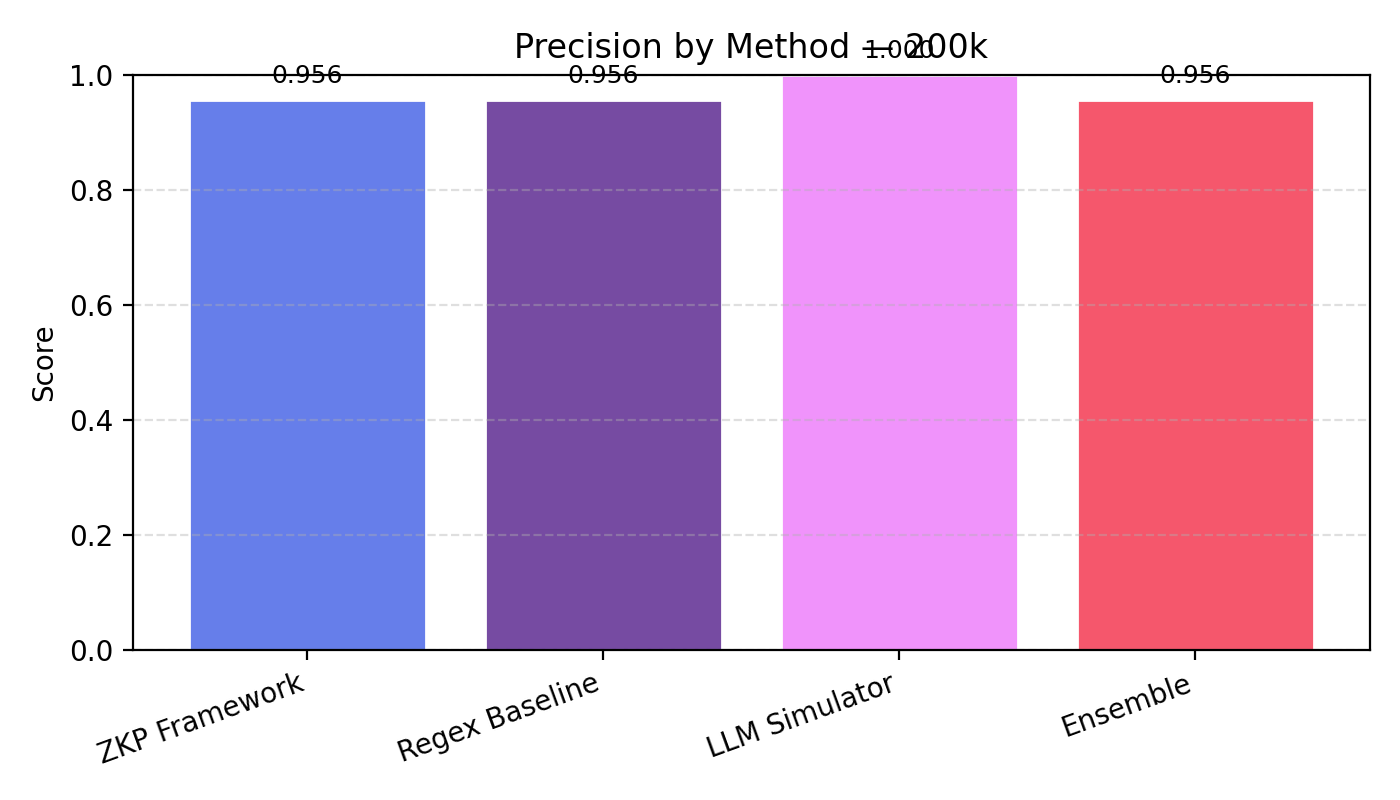
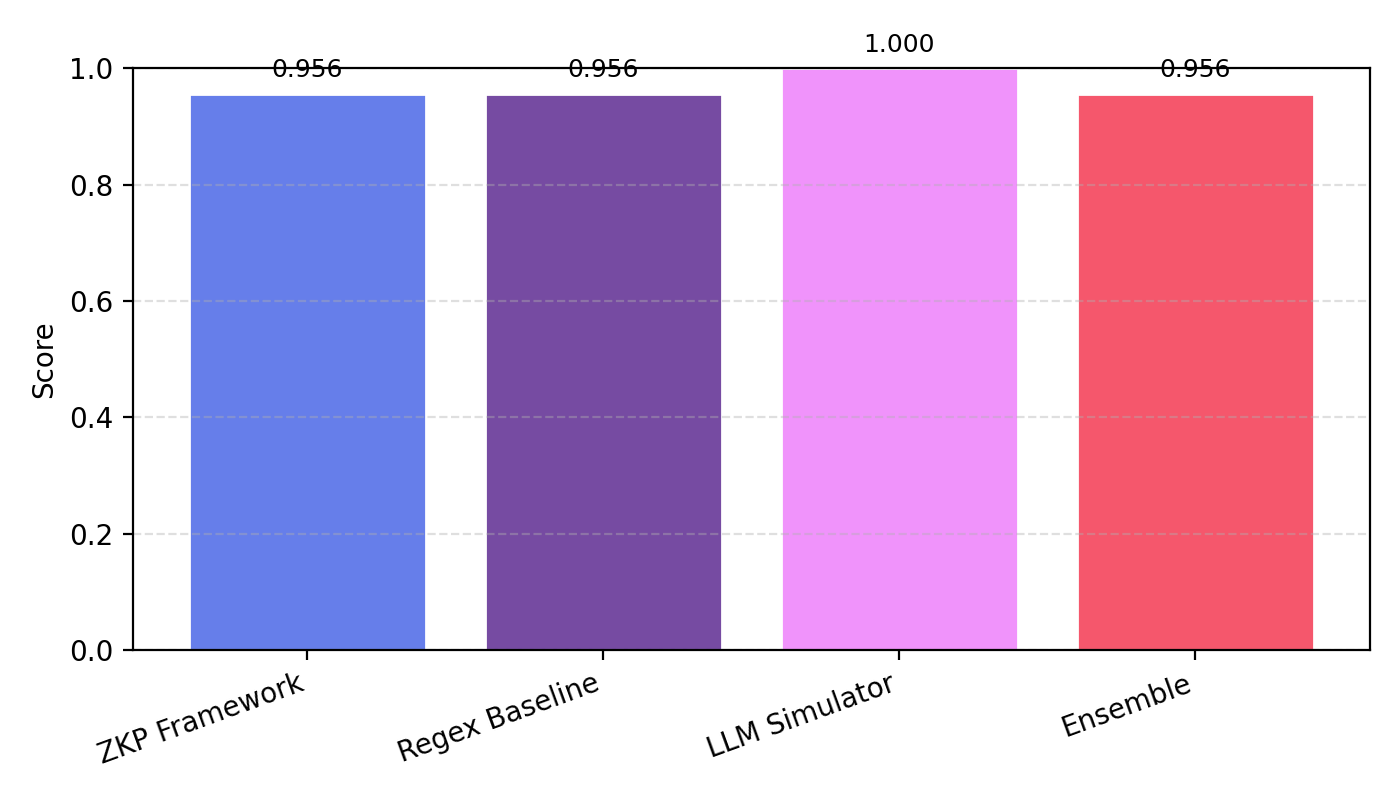
Remove chart titles to reduce visual clutter; regenerate results_bars

diff --git a/tools/aggregate_bars.py b/tools/aggregate_bars.py
@@ -99,7 +99,6 @@ def bar_per_size(per_size: Dict[str, Dict[str, Dict[str, float]]], outdir: str) 
             x = np.arange(len(METHODS))
             plt.figure(figsize=(7, 4))
             bars = plt.bar(x, values, color=COLORS, edgecolor='white')
-            plt.title(f'{metric.title()} by Method — {s}')
             plt.xticks(x, METHODS, rotation=20, ha='right')
             plt.ylim(0, 1.0)
             plt.ylabel('Score')
@@ -130,7 +129,6 @@ def grouped_by_metric(per_size: Dict[str, Dict[str, Dict[str, float]]], outdir: 
         plt.figure(figsize=(9, 5))
         for i, method in enumerate(METHODS):
             plt.bar(x + (i - 1.5) * width, mat[i], width, label=method, color=COLORS[i], edgecolor='white')
-        plt.title(f'{metric.title()} — Methods across Dataset Sizes')
         plt.xticks(x, sizes)
         plt.ylim(0, 1.0)
         plt.ylabel('Score')
